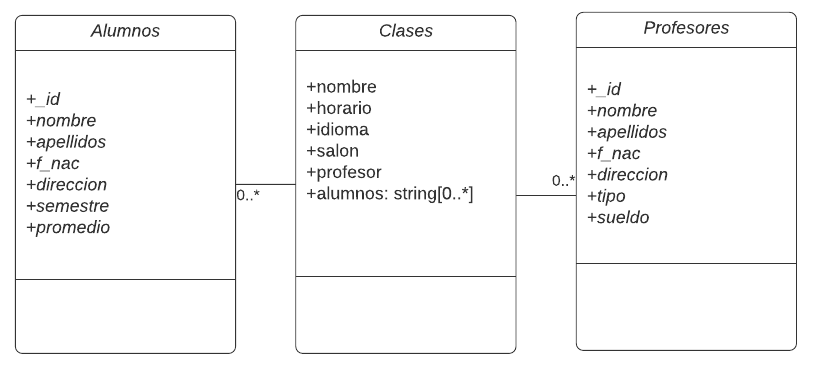
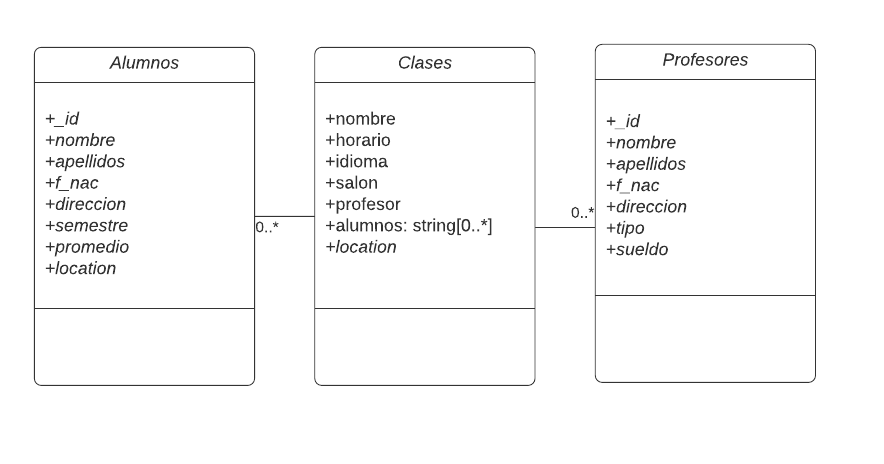
Consulta de geoNear casi lista

diff --git a/backend/index.js b/backend/index.js
@@ -99,7 +99,8 @@ app.post('/ingresarAlumno/guardar', (req, res) => {
         f_nac: req.body.f_nac,
         direccion: req.body.direccion,
         semestre: parseInt(req.body.semestre),
-        promedio: parseInt(req.body.promedio)
+        promedio: parseInt(req.body.promedio),
+        location: {type : "Point", coordinates :[parseFloat(req.body.longitud), parseFloat(req.body.latitud)]}
     };
 
     mongo.connect(url, function(err, db) {
@@ -146,7 +147,8 @@ app.post('/editarAlumno/guardar', (req, res) => {
         f_nac: req.body.f_nac,
         direccion: req.body.direccion,
         semestre: parseInt(req.body.semestre),
-        promedio: parseInt(req.body.promedio)
+        promedio: parseInt(req.body.promedio),
+        location: {type : "Point", coordinates :[parseFloat(req.body.longitud), parseFloat(req.body.latitud)]}
     };
 
     mongo.connect(url, function(err, db) {
@@ -441,7 +443,8 @@ app.post('/ingresarClase/guardar', (req, res) => {
         idioma: req.body.idioma,
         salon: parseInt(req.body.salon),
         profesor: req.body.profesor,
-        alumnos: (req.body.alumnos.replace(/\s/g, "")).split(',')
+        alumnos: (req.body.alumnos.replace(/\s/g, "")).split(','),
+        location: {type : "Point", coordinates :[parseFloat(req.body.longitud), parseFloat(req.body.latitud)]}
     };
 
     mongo.connect(url, function(err, db) {
@@ -488,7 +491,8 @@ app.post('/editarClase/guardar', (req, res) => {
         idioma: req.body.idioma,
         salon: parseInt(req.body.salon),
         profesor: req.body.profesor,
-        alumnos: (req.body.alumnos.replace(/\s/g, "")).split(',')
+        alumnos: (req.body.alumnos.replace(/\s/g, "")).split(','),
+        location: {type : "Point", coordinates :[parseFloat(req.body.longitud), parseFloat(req.body.latitud)]}
     };
 
     mongo.connect(url, function(err, db) {
@@ -568,26 +572,6 @@ app.get('/unwind', (req, res) => {
         });
 })
 
-app.get('/unwind', (req, res) => {
-    const resPerPage = 10;
-    const page = req.params.page;
-
-    mongo.connect(url, async function(err, db) {
-        if (err) throw err;
-        var dbo = db.db("clases");
-        const clases = await dbo.collection("clases").find({}, { projection: { direccion : 0} }).skip((resPerPage * page) - resPerPage).limit(resPerPage).sort({ _id: 1 }).toArray();
-        const numClases = await dbo.collection("clases").count({});
-
-        console.log(clases)
-
-        res.render('clases', {
-            clases: clases,
-            currentPage: parseInt(page),
-            pages: Math.ceil(numClases / resPerPage),
-        })
-    });
-})
-
 app.get('/lookup', (req, res) => {
     mongo.connect(url, function(err, db) {
         if (err) throw err;
@@ -624,18 +608,18 @@ app.get('/graphLookup', (req, res) => {
         });
 })
 
-app.get('/unwind2', (req, res) => {
+app.get('/geoNear', (req, res) => {
     mongo.connect(url, function(err, db) {
         if (err) throw err;
           var dbo = db.db("clases");
           const agg = require('../scripts/consulta4')
-          dbo.collection("alumnos").aggregate(agg).toArray(function(err, result) {
+          dbo.collection("clases").aggregate(agg).toArray(function(err, result) {
           if (err) throw err;
             console.log(result);
             db.close();
             
             res.render('desplegaConsultas', {
-                type: "unwind2",
+                type: "geoNear",
                 alumnos: result
             })
           });

diff --git a/scripts/consulta4.js b/scripts/consulta4.js
@@ -1,9 +1,12 @@
+const mong = require('mongodb')
+
 const agg = [
-    {$project: {'promedio': 1}}, 
-    {$group: {_id: "$promedio", promedioPorAlumno: {$push: "$_id"}}}, 
-    {$unwind: {path: '$promedioPorAlumno'}},
+    {$geoNear: {near: {type: "Point", coordinates: [1.348195,9.3568025]}, distanceField: "dist.calculated", query: {_id: mong.ObjectID('5e93347e2c56e0be29203409')}}}, 
+    {$lookup: {from: 'alumnos', localField: 'alumnos', foreignField: '_id', as: 'result'}}, 
+    {$unwind: {path: '$result'}}, 
+    {$project: {'_id':0,'result.nombre':1, 'result.apellidos':1, 'result.semestre':1, 'result.promedio':1, 'result.location.coordinates':1, 'dist.calculated':1}}, 
     {$limit: 15},
-    {$sort: {_id: 1}}
+    {$sort: {_id:1}}
 ]
 
 module.exports = agg

diff --git a/README.md b/README.md
@@ -242,7 +242,7 @@ Javascript
 6. **Corra el servidor:**
 	  
     Vaya a la carpeta *backend* y corra el siguiente comando: ```npm run start```
-7. **AWS....**
+7. **AWS**
 	1. Crear una cuenta en AWS
 	2. Con la cuenta ya creada, dar click en "Sign In to the Console"
 	3. Iniciar sesión como usuario "root".
@@ -257,7 +257,7 @@ Javascript
 		* Source: Custom TCP Rule Protocol: TCP Port Range: 9000 Source: Anywhere
 	8. Posteriormente, dar click en "Launch" y seleccionar "create a new key pair". Descargar la "Key Pair".
 	9. Repetir los pasos 3 y 4 y asegurarse que la instancia fue creada y que esta corriendo ("running").
-	10. Copiar el Public DNS que voene en la parte inferior en la pestaña de "Description".
+	10. Copiar el Public DNS que viene en la parte inferior en la pestaña de "Description".
 	11. Abrir una Terminal (Mac) o Command prompt (Windows) y dirigirse al directorio donde se haya guardado la "Key Pair".
 	12. Correr el comando ```chmod 600 nameOfFile.pem ```
 	13. Correr el comando  ```ssh -i nameOfFile.pem ubuntu@ec2-18-216-51-7.us-east-2.compute.amazonaws.com```
